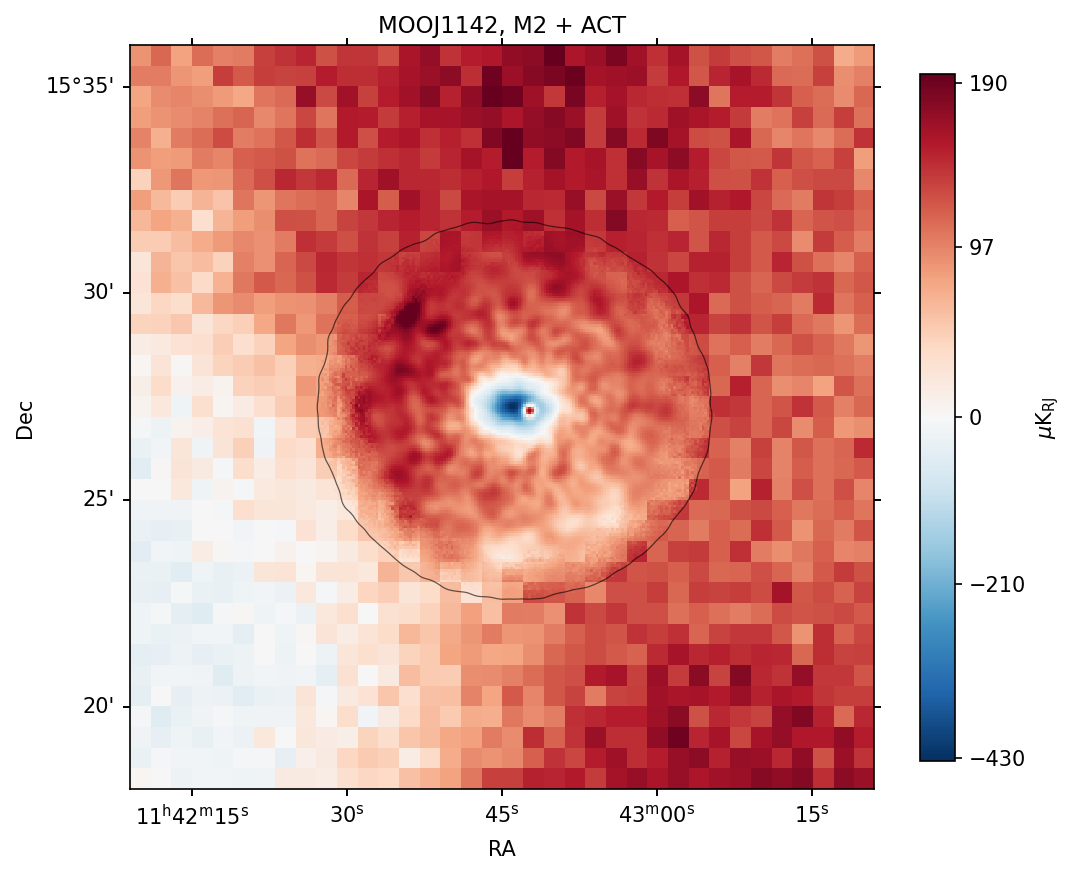
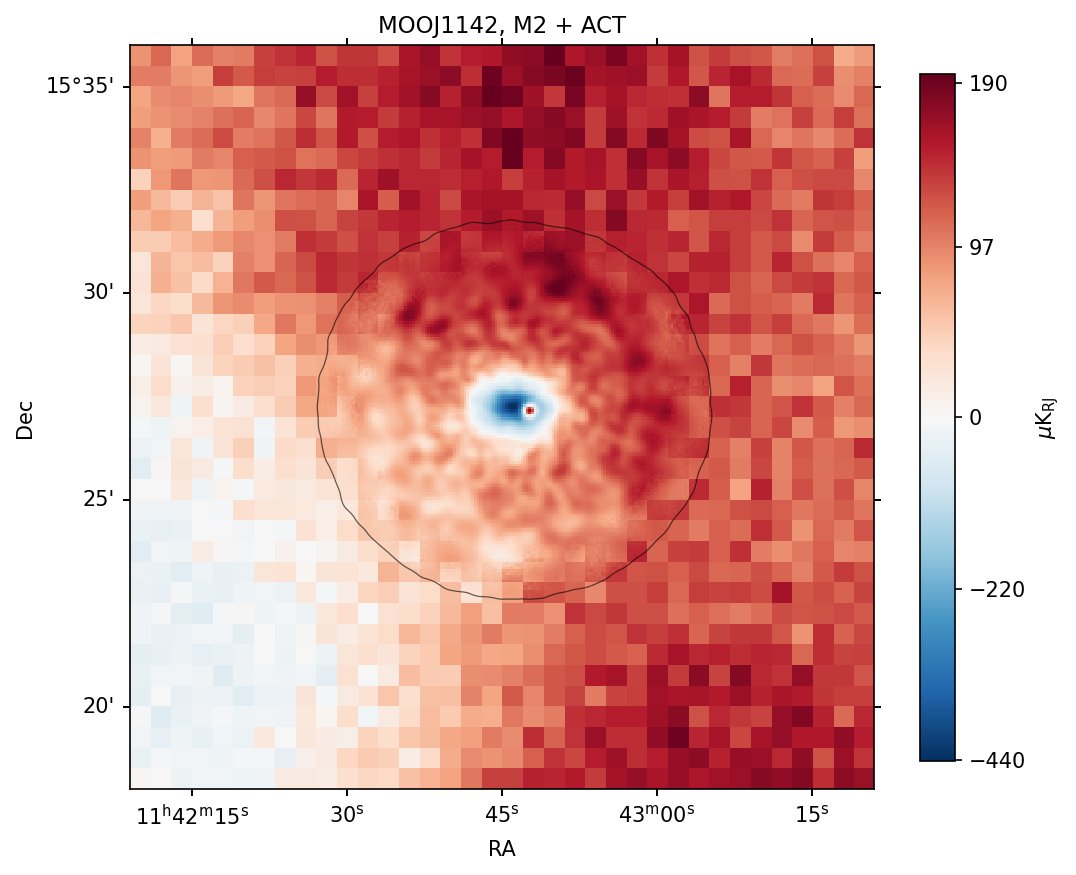
docs: corrected real maps (ACT orientation fixed) agree with ACT within its noise; 106-TOD map on both pages

Changed region(s): [[0.3067, 0.2777, 0.6747, 0.648], [0.8894, 0.8331, 0.9507, 0.8949], [0.8894, 0.648, 0.9507, 0.6789]]

diff --git a/reports/convergence_summary.html b/reports/convergence_summary.html
@@ -380,11 +380,22 @@ a:focus-visible { outline: 2px solid var(--accent); outline-offset: 2px; }
 <figcaption><strong>Figure 9. For comparison, the two masked solves</strong> (needlet CG without and with the outside prior), shown the same way as Figure 8. The patches at the footprint edge in the first row's residual are what the mask causes.</figcaption>
 </figure>
 <figure>
-<img src="figs/summary/best_real_multiscale.png" alt="Real data: MOOJ1142 M2 plus ACT two-resolution map from the unmasked solve">
-<figcaption><strong>Figure 10. Real data, 40 TODs, no mask, no prior, 600 iterations (K<sub>RJ</sub>).</strong> Same display as Figure 8, with the colour scale set by the map itself. The ACT map is the coadd of the 8 DR6 f090 splits, and the thin line marks where the joint map starts to show (hits ≥ 120). The joint map's offset from ACT inside the M2 region (−7 µK) is subtracted. The 106-TOD map is next.</figcaption>
+<img src="figs/summary/best_real106_multiscale.png" alt="Real data: MOOJ1142 M2 (all TODs) plus ACT two-resolution map, unmasked solve with ACT correctly oriented">
+<figcaption><strong>Figure 10. Real data, all 106 TODs, no mask, no prior, 600 iterations (K<sub>RJ</sub>), with ACT correctly oriented.</strong> Same display as Figure 8, with the colour scale set by the map itself. The ACT map is the coadd of the 8 DR6 f090 splits, and the thin line marks where the joint map starts to show (hits ≥ 120). The joint map's offset from ACT inside the M2 region (+2 µK) is subtracted. Seen at ACT resolution, it agrees with ACT to 1.15× ACT's noise.</figcaption>
 </figure>
 <div class="prose">
-<div class="callout"><p><strong>Update, 10 Nov evening: the tilt was a bug, now fixed (<code>809620f</code>).</strong> <code>read_act</code> copied the ACT pixels onto the fine grid by array index. pixell returns the ACT cutout with RA increasing along the array, while the fine grid has RA decreasing, so ACT entered every real-data solve <em>mirrored in RA</em>. The evidence: the joint map followed ACT's gradient in Dec (+35 against +41 µK) but had the opposite gradient in RA (−43 against +38 µK). The solve's own ACT map correlated with the real ACT map mirrored in RA (+0.63) and not with ACT as it is (−0.35). ACT is now taken at each block centre's sky position, and matches ACT read independently at a correlation of 0.999. The simulations were not affected: their ACT is built from the sky directly on the fine grid. Every real-data result with ACT made before the fix, including the masked and unmasked 40-TOD and 106-TOD maps and the jackknife below, used mirrored ACT. The real maps are being rerun.</p></div>
+<div class="callout"><p><strong>Update, 10 Nov evening: the tilt was a bug, now fixed (<code>809620f</code>).</strong> <code>read_act</code> copied the ACT pixels onto the fine grid by array index. pixell returns the ACT cutout with RA increasing along the array, while the fine grid has RA decreasing, so ACT entered every real-data solve <em>mirrored in RA</em>. The evidence: the joint map followed ACT's gradient in Dec (+35 against +41 µK) but had the opposite gradient in RA (−43 against +38 µK). The solve's own ACT map correlated with the real ACT map mirrored in RA (+0.63) and not with ACT as it is (−0.35). ACT is now taken at each block centre's sky position, and matches ACT read independently at a correlation of 0.999. The simulations were not affected: their ACT is built from the sky directly on the fine grid. Every real-data result with ACT made before the fix, including the masked and unmasked 40-TOD and 106-TOD maps and the jackknife below, used mirrored ACT.</p>
+<p><strong>After the fix</strong>, the real maps agree with ACT to within ACT's noise:</p>
+<div class="tablewrap"><table>
+<thead><tr><th>Real map, no mask, 600 iterations</th><th>rms / ACT noise</th><th>Tilt at the edge</th><th>Bowl (with the tilt)</th></tr></thead>
+<tbody>
+<tr><td>40 TODs, ACT mirrored</td><td class="num">2.57</td><td class="num">82 µK</td><td class="num">+12 µK</td></tr>
+<tr><td><strong>40 TODs, fixed</strong></td><td class="num">0.96</td><td class="num">4 µK</td><td class="num">+10 µK</td></tr>
+<tr><td>106 TODs, ACT mirrored</td><td class="num">3.29</td><td class="num">104 µK</td><td class="num">+27 µK</td></tr>
+<tr><td><strong>106 TODs, fixed</strong></td><td class="num">1.15</td><td class="num">11 µK</td><td class="num">+26 µK</td></tr>
+<tr><td>simulation, 40 TODs (for comparison)</td><td class="num">0.97</td><td class="num">3 µK</td><td class="num">−5 µK</td></tr>
+</tbody></table></div>
+<p>The 40-TOD map is now as consistent with ACT as the simulation. The 106-TOD map is slightly above 1, mostly a small bowl of +26 µK at the region's edge. That may be leftover M2 bowling, at the 1.1× level.</p></div>
 <h3>The real map tilts against ACT (before the fix)</h3>
 <p>Seen at ACT resolution, the real joint map differs from ACT inside the M2 region by 2.6× ACT's noise. The simulation gives 1.0. The difference is a tilt of about 81 µK at the region's edge, high on the left. Removing a plane leaves ACT noise. What the checks show:</p>
 <ul>

diff --git a/reports/needlet_mapmaking.html b/reports/needlet_mapmaking.html
@@ -295,8 +295,8 @@ out 9 [ G₉₀   G₉₁   G₉₂  …   G₉₉ ]</div>
   <figcaption><strong>Best configuration on the simulation: no mask, no prior, 600 iterations.</strong> Display maps for viewing only, 18′ field: 30″ ACT pixels, split into 8 × 8 sub-pixels (3.75″) where M2 has data (hits ≥ 20). The thin line marks where the joint map starts to show (hits ≥ 120); outside it, the ACT values are shown. A sub-pixel shows the joint map where it has at least 120 hits, feathered into ACT over the next 300 hits. Below 120 hits it shows its ACT pixel's value, since at those fine scales ACT carries no information and the map there would be pure low-hit M2 noise. The joint map is smoothed to 10″ where it has at least 3000 hits, and more where it has fewer: FWHM 10″ × √(3000 / hits), up to 30″. That keeps the displayed M2 noise about constant. The residual's M2 part is smoothed to 30″: 10 µK rms there, against 18 µK of ACT noise in the ACT pixels.</figcaption>
 </figure>
 <figure>
-  <img src="figs/summary/best_real_multiscale.png" alt="Real data: MOOJ1142 M2 plus ACT two-resolution map, unmasked solve">
-  <figcaption><strong>Real data, 40 TODs, no mask, no prior, 600 iterations (K<sub>RJ</sub>).</strong> 18′ field, same display as above. The thin line marks where the joint map starts to show (hits ≥ 120). The ACT map is the coadd of the 8 DR6 f090 splits, and the joint map's offset from ACT in the M2 region (−7 µK) is subtracted. <strong>This map was made with ACT mirrored in RA</strong>, a bug found and fixed on 10 November (<code>809620f</code>, see the problems table); that is the roughly 80 µK tilt against ACT. The corrected 40-TOD and 106-TOD maps are being made and will replace this one.</figcaption>
+  <img src="figs/summary/best_real106_multiscale.png" alt="Real data: MOOJ1142 M2 (all TODs) plus ACT two-resolution map, unmasked solve">
+  <figcaption><strong>Real data, all 106 TODs, no mask, no prior, 600 iterations (K<sub>RJ</sub>).</strong> 18′ field, same display as above. The thin line marks where the joint map starts to show (hits ≥ 120). The ACT map is the coadd of the 8 DR6 f090 splits, and the joint map's offset from ACT in the M2 region (+2 µK) is subtracted. Made after fixing the ACT orientation (<code>809620f</code>, see the problems table). Seen at ACT resolution, the map agrees with ACT to 1.15× ACT's noise, against 3.3× before the fix.</figcaption>
 </figure>
 
 <h2>Open questions</h2>

diff --git a/reports/HANDOFF.md b/reports/HANDOFF.md
@@ -173,3 +173,6 @@ figures in `reports/figs/summary/` (made by `examples/summary_figs.py`, `plot_re
 - Running (detached, `run_wcs.sh`): `lat40/nomask600_wcs` then `all106_nomask/run600_wcs`, each followed by `act_consistency.py`
   (`consistency.txt`) and a multiscale map (written to reports/figs/summary/best_real_multiscale.png and best_real106_multiscale.png;
   rerender without the --title argument, which got underscores). Expect the consistency rms near 1 if the fix explains the tilt.
+- Result of the reruns: the fix explains the tilt. Joint vs ACT at ACT resolution, rms / ACT noise: 40 TODs 0.96 (tilt 4 uK; was 2.57, 82 uK),
+  106 TODs 1.15 (tilt 11 uK, bowl +26 uK; was 3.29, 104 uK); simulation 0.97. Display maps rerendered; the 106-TOD map is Figure 10 /
+  the mapmaking page's real map. Possible follow-up: the +26 uK bowl in the 106-TOD map (leftover M2 bowling?).
